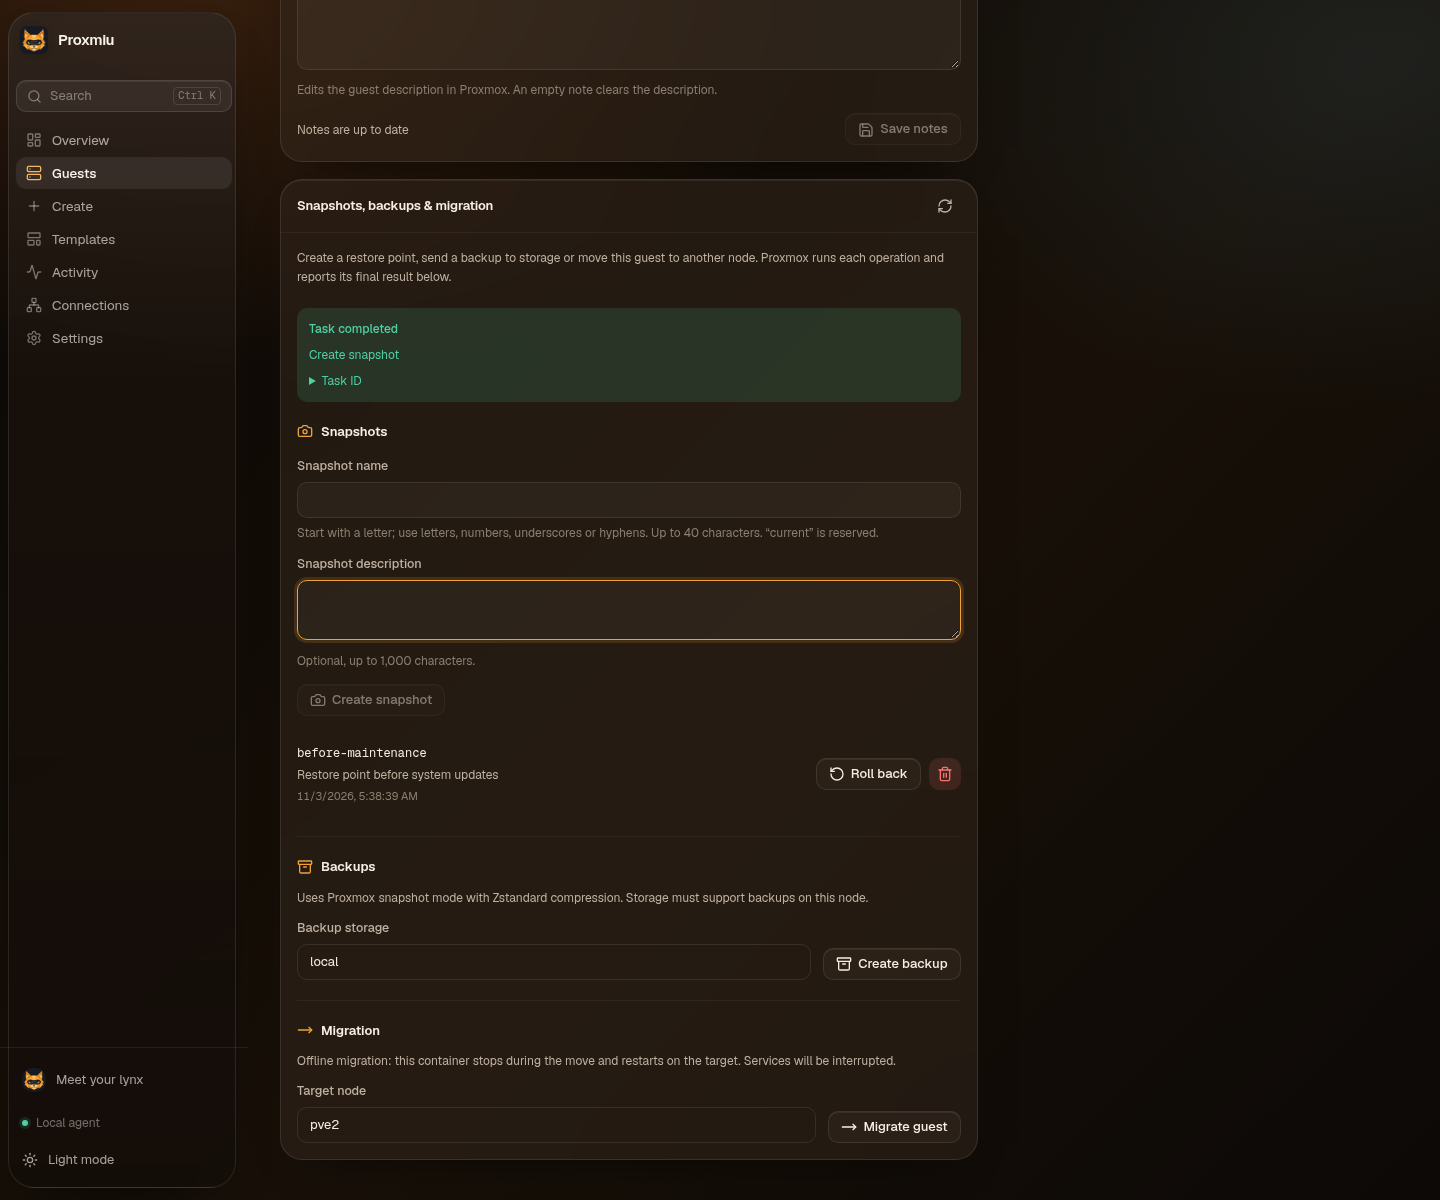
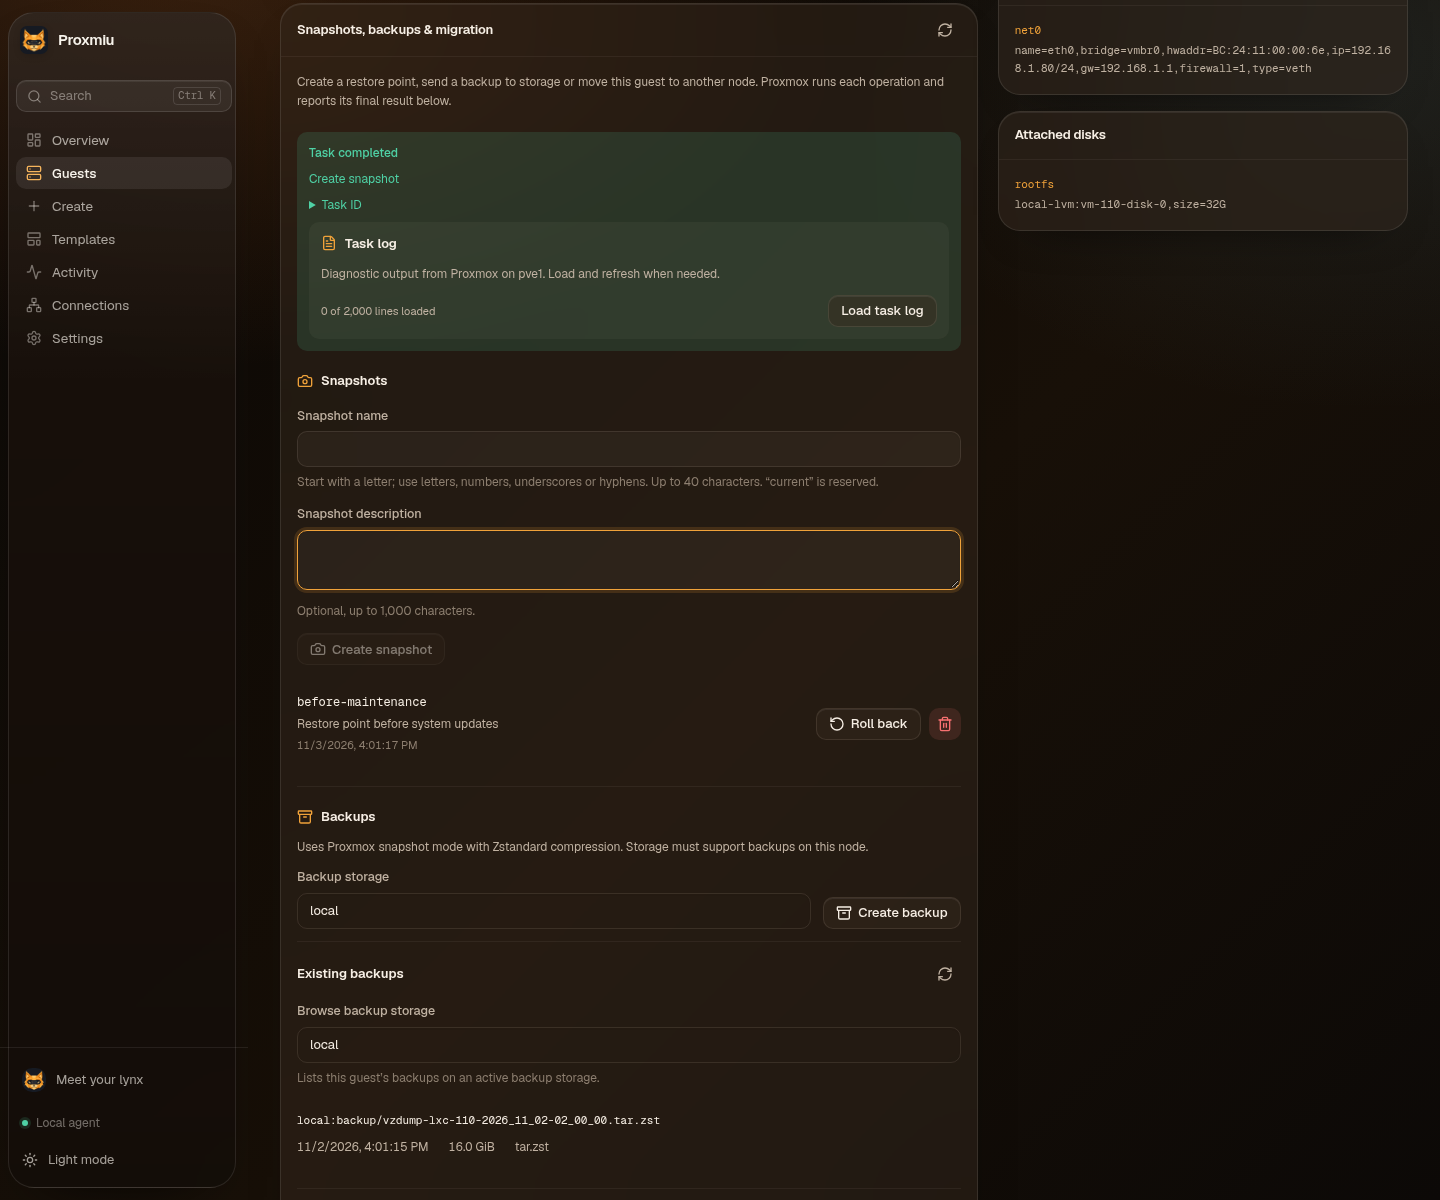
feat: document and showcase guest maintenance tools

diff --git a/index.html b/index.html
@@ -93,7 +93,7 @@
           <a class="button" href="#screenshots">See it in action</a>
         </div>
         <figure class="workspace-image">
-          <a href="screenshots/guest-detail.png?v=11" target="_blank" rel="noopener" aria-label="Open the full guest workspace screenshot"><img src="screenshots/guest-detail.png?v=11" alt="Proxmiu guest workspace showing performance history, configuration and notes" loading="lazy" width="1440" height="1200" /></a>
+          <a href="screenshots/guest-detail.png?v=12" target="_blank" rel="noopener" aria-label="Open the full guest workspace screenshot"><img src="screenshots/guest-detail.png?v=12" alt="Proxmiu guest workspace showing performance history, configuration and notes" loading="lazy" width="1440" height="1200" /></a>
           <figcaption>Proxmox history and configuration, with notes shared across both interfaces.</figcaption>
         </figure>
       </section>
@@ -101,14 +101,15 @@
       <section class="section operations-feature" aria-labelledby="operations-title">
         <div class="section-head">
           <h2 id="operations-title">Snapshots, backups,<br />and a change of node.</h2>
-          <p>Keep guest maintenance close to the machine. Each operation starts a real Proxmox task, with its progress and final result shown in the workspace.</p>
+          <p>Keep guest maintenance close to the machine. Each operation starts a real Proxmox task, with its status, final result and diagnostic logs shown in the workspace.</p>
         </div>
         <dl class="operation-list">
           <div><dt>Save a snapshot</dt><dd>Name a restore point and add a description. Rollback and snapshot deletion require typed confirmation.</dd></div>
-          <div><dt>Start a backup</dt><dd>Choose an available backup storage and follow the Proxmox task through to its result.</dd></div>
+          <div><dt>Start a backup</dt><dd>Choose an available backup storage, browse this guest’s existing archives, and follow new backup tasks through to their result.</dd></div>
           <div><dt>Move to another node</dt><dd>Choose an available destination in the cluster. Proxmox checks whether the guest can migrate.</dd></div>
         </dl>
         <p class="feature-note">Availability depends on your Proxmox permissions, guest configuration and storage. Existing installations may need a role update; Proxmiu never expands permissions automatically.</p>
+        <p class="feature-note">Fine-tune cores, memory and start-at-boot settings while a guest is stopped. Review the changes first; pending changes and stale configuration checks protect edits made in Proxmox.</p>
       </section>
 
       <section id="features" class="section">
@@ -206,8 +207,12 @@
             <figcaption><strong>Optional AI advice.</strong> Add your provider token, preview anonymous metrics and choose when to request advice.</figcaption>
           </figure>
           <figure class="shot-wide">
-            <img src="screenshots/guest-operations.png?v=11" alt="Guest snapshots, backup storage and migration controls with a completed mock Proxmox task" loading="lazy" />
+            <img src="screenshots/guest-operations.png?v=12" alt="Guest snapshots, backup storage and migration controls with a completed mock Proxmox task" loading="lazy" />
             <figcaption><strong>Guest operations.</strong> Snapshots, backups and migration, with clear task results. HA-managed guests stay in Proxmox HA controls.</figcaption>
+          </figure>
+          <figure class="shot-wide">
+            <img src="screenshots/guest-resources.png?v=12" alt="Stopped guest with reviewed CPU, memory and start-at-boot settings" loading="lazy" />
+            <figcaption><strong>Resource settings.</strong> Adjust stopped-guest allocations with a review step and configuration conflict checks.</figcaption>
           </figure>
           <figure class="shot-wide">
             <img src="screenshots/command-palette.png?v=10" alt="Proxmiu command palette" loading="lazy" />

diff --git a/README.md b/README.md
@@ -42,3 +42,5 @@ The hero features the same amber robotic lynx as the app. Choose **Meet your lyn
 With Node.js and Playwright available, run `node tests/lynx.e2e.cjs` to check the interaction and `node tests/presentation.e2e.cjs` for actual desktop/390px page checks, loaded images and feature/privacy copy. Set `CHROMIUM_PATH` to use a system Chromium installation. Presentation captures are written to `/tmp/proxmiu-site-*.png`.
 
 Current guest workspace, operations and Settings screenshots were captured through the real local agent and bundled synthetic Proxmox mock (`scripts/capture-advanced.cjs` in the app repository). They do not show a real host; AI was unconfigured and no provider was contacted.
+
+Guest maintenance also covers reviewed CPU/memory/start-at-boot edits for stopped guests, existing-backup browsing by storage, and paged diagnostics for Proxmiu-started tasks. Conflicting or pending configuration changes remain explicit.
